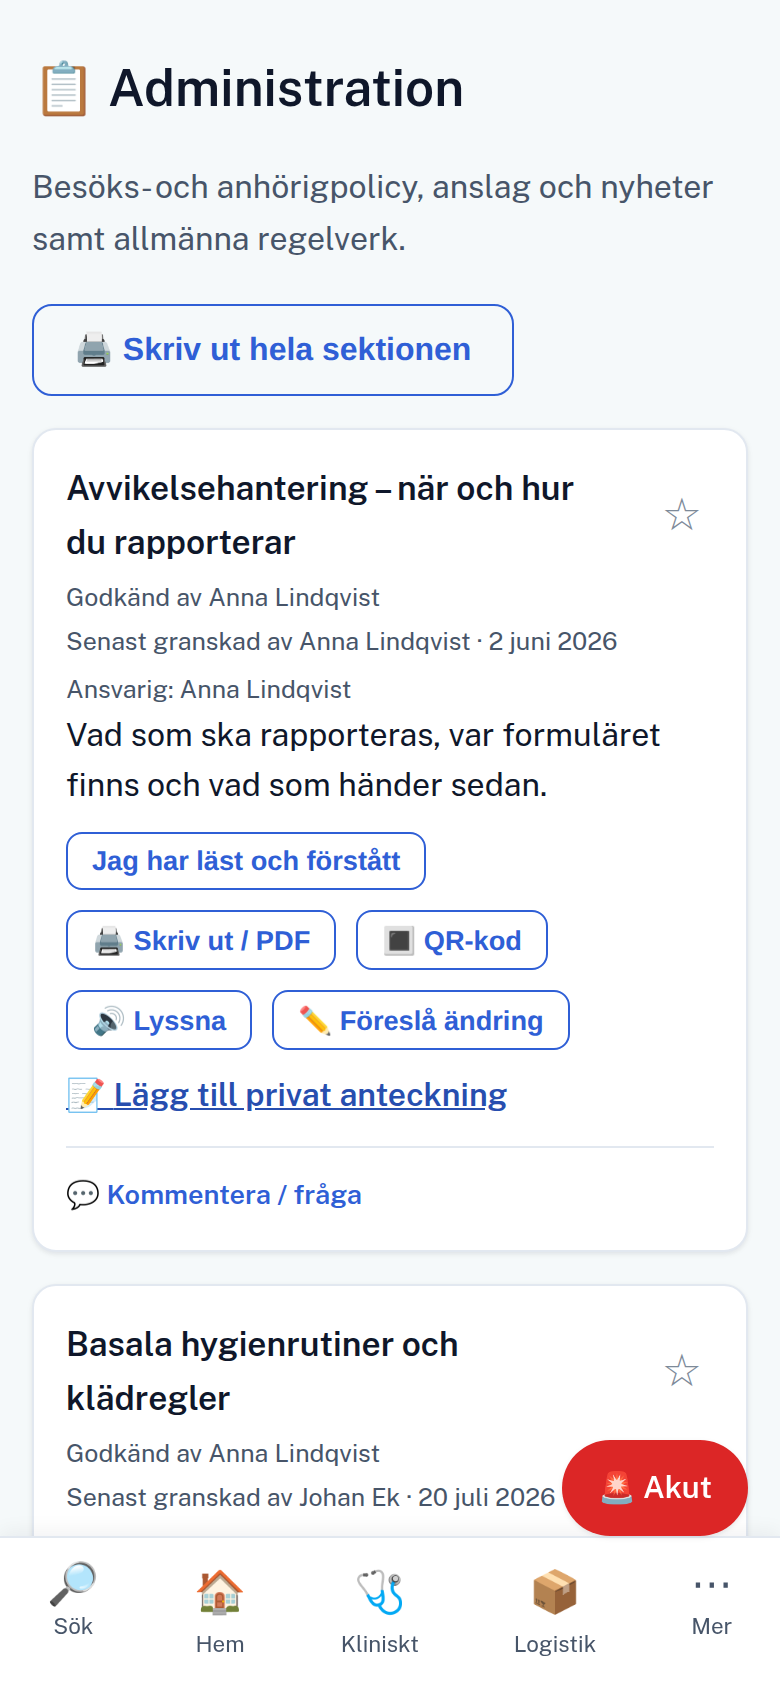
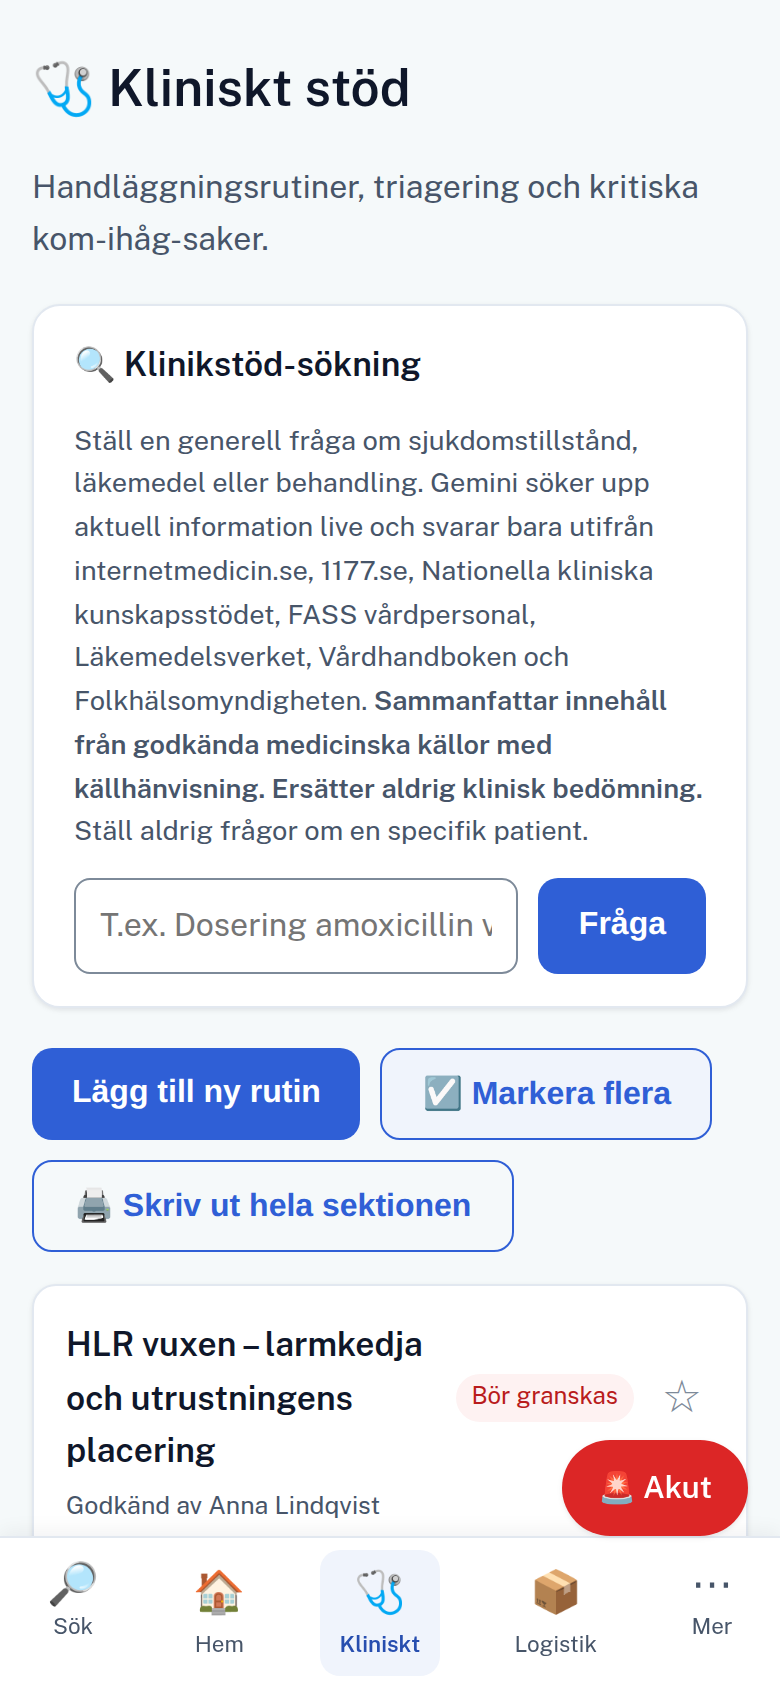
Fotografera /kliniskt-stod och byt röst till "jag" på webbplatsen
Dubbelkollade ägarens godkända MDR-fix (BESLUTSLOGG.md 2026-09-08) mot
faktisk kod innan nästa steg: KlinikfragaSok.jsx och KlinisktStod.jsx
har ersättningstexten oförändrad, källantalet stämmer nu mot
GODKANDA_KALLDOMANER (sju).

skarmbilder.spec.mjs fångar nu /kliniskt-stod i stället för den
tidigare /administration-substitutionen, som bara fanns för att
MDR-orden blockerade vyn. Bilden visar klinikstöd-sökningen med
källhänvisningstexten synlig men tom och oskickad – sökningen
anropar en extern källa ingen emulator kan svara på, och ett skickat
sökresultat ska aldrig hårdkodas i en marknadsbild. Alt-text och
bildtext i index.html omskrivna för att beskriva den faktiska bilden.

Röstbyte "vi" -> "jag" (VARUMARKE.md §8) i index.html och underlag.html,
de två filer den öppna punkten pekade ut. Två kvarvarande "vi" i
index.html lämnade medvetet - de återger kundens/personalens egen röst,
inte Synappsens. integritet.html rördes inte, låg utanför punktens
filscope.

Claude-Session: https://claude.ai/code/session_01MfMri7bFPJKFkaqT3B4Dv3

diff --git a/synappsen-web/index.html b/synappsen-web/index.html
@@ -207,10 +207,11 @@
       <div class="bilder" style="margin-top: 34px;">
         <figure class="bild">
           <img src="/bilder/app-rutiner.png" width="780" height="1688"
-               alt="En rutin i appen med raderna Godkänd av, Senast granskad av med datum och Ansvarig, samt knappar för att kvittera läsning, skriva ut, visa QR-kod och föreslå en ändring." />
+               alt="Vyn Kliniskt stöd i appen. Klinikstöd-sökningen med hjälptexten om att svaret källhänvisas och aldrig ersätter klinisk bedömning, sökfältet tomt och oskickat. Under den börjar rutinlistan med HLR vuxen – larmkedja och utrustningens placering, märkt Bör granskas och Akut." />
           <figcaption>
-            Varje rutin bär vem som godkänt den, när den senast granskades och vem som äger
-            den. Kvitteringsknappen är personalens, inte redaktörens.
+            Klinikstöd-sökningen källhänvisar varje svar till exakt de sju domäner den är
+            tekniskt begränsad till – ingen instruktion till en AI att hålla sig till dem, en
+            domänbegränsad sökmotor. Skärmbild ur appen med demodata, sökningen aldrig skickad.
           </figcaption>
         </figure>
         <figure class="bild">
@@ -401,13 +402,13 @@
     <section id="saknas">
       <div class="sek-huvud">
         <span class="sek-nr">06 — Öppenhet</span>
-        <h2>Ett fall ur vår egen utveckling, och gränserna vi dragit.</h2>
+        <h2>Ett fall ur min egen utveckling, och gränserna jag dragit.</h2>
       </div>
 
       <div class="prosa" style="margin-bottom: 38px;">
         <p>
           Alla system har luckor och alla utvecklingsprojekt stöter på problem. Här är ett
-          konkret fall ur vår egen utveckling, återgivet i sin helhet – och de gränser vi
+          konkret fall ur min egen utveckling, återgivet i sin helhet – och de gränser jag
           dragit medvetet.
         </p>
       </div>
@@ -424,9 +425,9 @@
           </p>
         </div>
         <div class="fall__led">
-          <span class="fall__etikett">Vad vi gjorde</span>
+          <span class="fall__etikett">Vad jag gjorde</span>
           <p>
-            Vi stängde av funktionen. Inte begränsade den, inte lade en varningstext på den –
+            Jag stängde av funktionen. Inte begränsade den, inte lade en varningstext på den –
             stängde av den, och byggde om grunden så att sökningen sker via en verkligt
             domänbegränsad sökmotor istället för via en instruktion.
           </p>
@@ -469,7 +470,7 @@
             <h3>Integration mot journalsystem</h3>
             <div>
               <span class="saknas__skal">Avstått för att hålla patientdata utanför</span>
-              <p>Synappsen spärrar aktivt patientuppgifter i tre lager. En integration mot Cosmic, Melior eller TakeCare skulle vara en annan produkt med en annan riskbild – vi bygger hellre det vi kan stå för.</p>
+              <p>Synappsen spärrar aktivt patientuppgifter i tre lager. En integration mot Cosmic, Melior eller TakeCare skulle vara en annan produkt med en annan riskbild – jag bygger hellre det jag kan stå för.</p>
             </div>
           </li>
           <li>
@@ -493,9 +494,9 @@
         <p>
           <strong>Och det viktigaste:</strong> Synappsen har ännu ingen enhet i skarp drift.
           Mätfunktionerna – trendkurvor, kvitteringsgrad, personalpuls – är byggda och redo,
-          men verkliga driftveckor finns inte att visa. Varje siffra vi anger är därför en
+          men verkliga driftveckor finns inte att visa. Varje siffra jag anger är därför en
           uppskattning, tydligt märkt som en sådan, tills en pilot gett riktiga tal. Vill ni
-          se resultat från andra kunder först är vi fel leverantör just nu. Vill ni vara den
+          se resultat från andra kunder först är jag fel leverantör just nu. Vill ni vara den
           som formar produkten medan den är ung, är det precis rätt läge.
         </p>
       </div>
@@ -576,7 +577,7 @@
             <h3>Drift</h3>
             <span class="paket__pris">59 000 kr</span>
             <span class="paket__enhet">per enhet och år · 150 användare ingår</span>
-            <span class="paket__flagga">Vår rekommendation</span>
+            <span class="paket__flagga">Min rekommendation</span>
           </div>
           <div class="paket__innehall">
             <p>Allt i Kärna, plus det som håller innehållet aktuellt och tillgängligt när driften är som mest sårbar.</p>
@@ -641,7 +642,7 @@
       <div class="prosa" style="margin-bottom: 32px;">
         <p>
           Piloten är avsiktligt liten: en avdelning, inte hela verksamheten. Poängen är att se
-          hur appen används i vanlig drift – och att få riktiga siffror istället för våra
+          hur appen används i vanlig drift – och att få riktiga siffror istället för mina
           uppskattningar.
         </p>
       </div>
@@ -685,7 +686,7 @@
       <span class="eyebrow">Kontakt</span>
       <h2>Boka en genomgång eller en pilot.</h2>
       <p class="lede" style="font-size: 17px;">
-        Vi visar appen i skarpt läge och går igenom upphandlingsunderlaget med er
+        Jag visar appen i skarpt läge och går igenom upphandlingsunderlaget med er
         IT-avdelning.
       </p>
       <p class="kontakt"><a class="kontakt__epost" href="mailto:kontakt@synappsen.se">kontakt@synappsen.se</a></p>

diff --git a/synappsen-web/underlag.html b/synappsen-web/underlag.html
@@ -66,7 +66,7 @@
           <div>
             <span class="saknas__skal">Publicerad</span>
             <p>
-              Varje underleverantör som behandlar personuppgifter för vår räkning, med ändamål
+              Varje underleverantör som behandlar personuppgifter för min räkning, med ändamål
               och region. Det ert dataskyddsombud behöver för artikel 28.2. Även här står
               öppna punkter kvar i texten.
             </p>
@@ -133,7 +133,7 @@
       <div class="prosa" style="margin-top: 26px;">
         <p>
           <strong>En sak att veta i förväg:</strong> underbiträdesförteckningen ovan innehåller
-          en öppen brist som vi inte lyft ut ur den publicerade versionen. Den står kvar
+          en öppen brist som jag inte lyft ut ur den publicerade versionen. Den står kvar
           därför att ett dokument som redovisar leverantörskedjan tappar hela sitt värde om
           just det obekväma redigeras bort.
         </p>

diff --git a/CLAUDE_STATUS.md b/CLAUDE_STATUS.md
@@ -4,11 +4,11 @@
 > `etapplaner/UTVECKLINGSLOGG.md` (detaljerad teknisk historik) eller planfilerna i
 > `etapplaner/` – den pekar vidare dit.
 >
-> **Historiken ligger i `etapplaner/STATUSARKIV.md`** (154 uppföljningar från 2026-07-28 och
+> **Historiken ligger i `etapplaner/STATUSARKIV.md`** (155 uppföljningar från 2026-07-28 och
 > framåt). Den här filen behåller bara de senaste. Sök i arkivet när du behöver veta *varför*
 > något gjordes.
 
-**Senast uppdaterad:** 2026-09-08 · **v5.139.0 i produktion**. **`firebase-tools`-bumpen
+**Senast uppdaterad:** 2026-09-09 · **v5.139.0 i produktion**. **`firebase-tools`-bumpen
 (`^13.35.1` → `^15.29.0`) är DEPLOYAD** (`deploy.yml` #99, success, 2026-09-08 19:54 –
 `last-modified`-headern på `https://synappsen-final-build.web.app` matchar exakt
 hostingens release-tidsstämpel, samtliga Cloud Functions "Successful update operation").
@@ -19,18 +19,17 @@ sandboxartefakt som inte reproducerar på riktig CI (24/0 klart där, två separ
 Den verkliga blockeraren var en annan, äkta firebase-tools-bugg (`Proxied.getOriginal()`
 binder bort statiska egenskaper som `admin.firestore.FieldValue`), fixad på vår sida med en
 direktimport i 14 filer. Se uppföljningen 2026-09-08 nedan för hela, korrigerade historien.
-Parallell tråd (gren
-`claude/synappsen-webbplats-jnmzn1`, PR #23, grön/mergebar) hittade två MDR-ord kvar i
-gränssnittet (⚠ ägarbeslut, `OPPNA-PUNKTER.md`) och det ursprungliga fyndet att `test:e2e`
-inte bevisade att Cloud Functions fungerade (`firebase-tools@13`-buggen, nu löst, se
-uppföljningen 2026-09-08 nedan). **Vertex AI-migreringen är
+**PR #23 (webbplatsen) mergad 2026-09-08.** De två MDR-orden ("Beslutsstöd"/"triageringsstöd")
+är borttagna ur klinikstöd-gränssnittet samma dag, ägarbeslut i `BESLUTSLOGG.md` – se
+uppföljningen 2026-09-09 nedan. **Vertex AI-migreringen är
 DEPLOYAD** (`deploy.yml` #98, success) och utvärderingen är helt ren efter deployen (13 OK,
 0 FEL, 0 GRANSKA). Kvar: bekräfta ett riktigt anrop i appen, se `OPPNA-PUNKTER.md`. Utgående e-post är stoppat
 sedan v5.131.0 i väntan på Brevos PUB-avtal. **Etapp L1 (leverantörspanelen) är SLUTFÖRD.**
-**Webbplatsen har fått skärmbilder ur appen, fyra publicerade dokumentsidor och räknade
-bevissiffror** (se uppföljningen 2026-09-06 om bevisluckan) – fortfarande `noindex`, nu sex
-sidor som ska avgömmas samtidigt. **E2E-sviten är grön igen** (2026-09-07): `test:e2e` startar
-nu functions-emulatorn, vilket den inte gjort sedan v5.136.0 bröt den.
+**Webbplatsen har fått skärmbilder ur appen (nu även `/kliniskt-stod`), fyra publicerade
+dokumentsidor, räknade bevissiffror och konsekvent "jag"-röst på start- och underlagssidan**
+(se uppföljningen 2026-09-09 nedan) – fortfarande `noindex`, sex sidor som ska avgömmas
+samtidigt. **E2E-sviten är grön igen** (2026-09-07): `test:e2e` startar nu functions-
+emulatorn, vilket den inte gjort sedan v5.136.0 bröt den.
 **Etapp 72 (`etapplaner/ETAPPLAN19.md`):** riktningen är antagen, beslutspunkt 5
 (efterfrågegrinden) gäller fortfarande som huvudregel för alla ÖVRIGA delmål. 72f, 72d och
 72h byggda och deployade som ett uttryckligt, engångsbeslutat undantag från grinden (se
@@ -137,6 +136,33 @@ vilken är historisk, vilken är auktoritativ för vad). Kort version:
   modul-gating, kostnadshistorik, schemalagda jobb, push-notiser).
 - `tests/rules/`, `tests/functions/` – emulator-baserade testsviter.
 
+
+## Uppföljning 2026-09-09 (PR #23 mergad, klinikstöd-fyndet dubbelkollat, /kliniskt-stod fotograferad, "jag"-röst genomförd)
+
+**PR #23 (webbplatsens bevislucka) mergad 2026-09-08**, `firebase-tools`-buggen bekräftad
+löst och deployad – se uppföljningen nedan. Innan nästa steg dubbelkollades ägarens
+godkända fix av "Beslutsstöd"/"triageringsstöd" mot faktisk kod (`KlinikfragaSok.jsx`,
+`KlinisktStod.jsx`, `BESLUTSLOGG.md` 2026-09-08): korrekt, ersättningstexten är oförändrad
+mot `JURIDISK-GRANSKNING.md` § 6.4, och källantalet stämmer nu mot `GODKANDA_KALLDOMANER`
+(sju).
+
+**Skärmbild av `/kliniskt-stod` tillagd** (`synappsen-web/verktyg/skarmbilder.spec.mjs`),
+ersätter den tidigare `/administration`-substitutionen. Bilden (`app-rutiner.png`, samma
+plats i `index.html`) visar klinikstöd-sökningen med källhänvisningstexten synlig men
+**tom och oskickad** – sökningen anropar en extern källa (Google Programmable Search +
+Vertex AI) som varken emulatorn eller bildtagningen har åtkomst till, och ett riktigt
+sökresultat ska aldrig hårdkodas i en marknadsbild. Alt-text och bildtext omskrivna för att
+beskriva den faktiska bilden (verifierad visuellt, inte antagen).
+
+**Röstbyte "vi" → "jag"** (`produkt/VARUMARKE.md` §8) genomfört i `index.html` och
+`underlag.html` – de två filer öppna punkten pekade ut. Genomgånget rad för rad: två
+kvarvarande "vi"-förekomster i `index.html` (rubriken "vet vi att alla har läst..." och
+"Ni sa, vi gjorde") är **medvetet lämnade** – de återger kundens/personalens egna röst, inte
+Synappsens, och skulle ha blivit fel om de bytts. `integritet.html` (policydokument, ett
+tiotal "vi") **rördes inte** – låg utanför den öppna punktens uttalade filscope och var inte
+en del av den här begäran. Raden borttagen ur `OPPNA-PUNKTER.md`.
+
+Fullt testsvep: `npm run lint`, `npx vitest run` (607 tester), `npm run build` – alla gröna.
 
 ## Uppföljning 2026-09-08 (firebase-tools bumpat till `^15.29.0` – två fel hittade, ett var falskt)
 
@@ -346,40 +372,3 @@ exponerar den öppna Brevo-bristen och interna sökvägar. Sex sidor ska avgömm
 två.
 
 ---
-## Uppföljning 2026-09-06 (AI-integrationens risker kartlagda – 8 fynd, ingen kod ändrad än)
-
-Ägaren frågade rakt ut vilka risker som finns i hur AI faktiskt är integrerad i Synappsen –
-personuppgifter, hallucination, MDR-gränsen – direkt efter att Vertex AI-migreringen
-deployats och verifierats (se sektionen nedan). En läsning av samtliga sex AI-anropsställen
-gav åtta namngivna fynd, skrivna ned i `granskningar/AI-INTEGRATIONSRISKER-2026-09-06.md`
-tillsammans med en prioritetsordning. **Ingen kod ändrades i den här sessionen** – ägaren bad
-uttryckligen om att dokumentera och komma ihåg dem för framtida arbete, ett fynd i taget med
-egen testtäckning, inte ett samlat svep.
-
-**Allvarligast (fynd 1):** `tolkaDokument` skickar en uppladdad bild till Vertex AI FÖRE
-`innehallerPersonnummer()` körs på resultatet – kontrollen skyddar Firestore mot lagring, inte
-själva överföringen till underbiträdet. Bilduppladdningsflödet saknar dessutom helt den
-namnvarning som redan finns för formulärtext (`kontrolleraPatientuppgifter` i
-`src/utils/piiFilter.js`).
-
-**Övriga fynd, kort:** (2) uppladdade råfoton raderas aldrig, bara vid kontoavetablering –
-GDPR-lagringsminimering, med bieffekten att andra än uppladdaren sannolikt inte kan se
-originalbilden bakom ett AI-utkast; (3) `klinikfrageloggar`/`klinikfragecache` har ingen
-faktisk gallring; (4) klinikstödets sex regler är mätta (`ai-evaluering.yml`, fyra körningar),
-men kviss- och stegförslagens liknande regler är det INTE – och en kvissfråga är ett facit
-(`rättIndex`), inte en sökträff, så en hallucinerad dos där väger tyngre; (5) artikel
-50-märkningen ("AI-tolkat ursprung") finns bara för rutinens ursprung, inte för AI-genererad
-kviss/steg; (6) bildtolkningens fritextfält (särskilt `komIhagFlaggor`) tas rakt av utan
-efterkontroll, mildrat men inte löst av utkastsgranskningen (löses av fynd 2:s fix); (7) ingen
-logg över VILKA anrop som gjorts till Google, vilket `avtal/INCIDENTRESPONSPLAN.md` avsnitt
-5.1 förutsätter finns; (8) budgeten återbetalas inte vid ett misslyckat anrop.
-
-**Vad som redan är starkt, för balansens skull:** EU-region verifierad genom faktiska anrop,
-ingen fristående API-nyckel, budgettak per organisation och användare, klinikstödets
-källbegränsning i två oberoende lager, allt AI-innehåll blir ett utkast som kräver mänskligt
-godkännande, promptinjektionens strukturella väg stängd, säkerhetsreglerna mätta i stället för
-antagna. Fynden ovan är förfiningar av ett redan relativt försvarat system, inte tecken på att
-grunden är svag.
-
-**Spårning:** varje fynd har en egen rad i `OPPNA-PUNKTER.md` under "Tio minuter", i samma
-prioritetsordning som dokumentet. Dokument nr 75, registrerat i `DOKUMENTREGISTER.md`.

diff --git a/etapplaner/STATUSARKIV.md b/etapplaner/STATUSARKIV.md
@@ -5436,3 +5436,41 @@ deployen och visade `in_progress` i över en timme efter att jobbet i själva ve
 20:04. Jag rapporterade det stale läget som pågående. Loggendpointen (404 medan jobbet kör,
 innehåll när det är klart) visade sig vara den enda tillförlitliga signalen på att en körning
 faktiskt avslutats.
+
+## Uppföljning 2026-09-06 (AI-integrationens risker kartlagda – 8 fynd, ingen kod ändrad än)
+
+Ägaren frågade rakt ut vilka risker som finns i hur AI faktiskt är integrerad i Synappsen –
+personuppgifter, hallucination, MDR-gränsen – direkt efter att Vertex AI-migreringen
+deployats och verifierats (se sektionen ovan). En läsning av samtliga sex AI-anropsställen
+gav åtta namngivna fynd, skrivna ned i `granskningar/AI-INTEGRATIONSRISKER-2026-09-06.md`
+tillsammans med en prioritetsordning. **Ingen kod ändrades i den här sessionen** – ägaren bad
+uttryckligen om att dokumentera och komma ihåg dem för framtida arbete, ett fynd i taget med
+egen testtäckning, inte ett samlat svep.
+
+**Allvarligast (fynd 1):** `tolkaDokument` skickar en uppladdad bild till Vertex AI FÖRE
+`innehallerPersonnummer()` körs på resultatet – kontrollen skyddar Firestore mot lagring, inte
+själva överföringen till underbiträdet. Bilduppladdningsflödet saknar dessutom helt den
+namnvarning som redan finns för formulärtext (`kontrolleraPatientuppgifter` i
+`src/utils/piiFilter.js`).
+
+**Övriga fynd, kort:** (2) uppladdade råfoton raderas aldrig, bara vid kontoavetablering –
+GDPR-lagringsminimering, med bieffekten att andra än uppladdaren sannolikt inte kan se
+originalbilden bakom ett AI-utkast; (3) `klinikfrageloggar`/`klinikfragecache` har ingen
+faktisk gallring; (4) klinikstödets sex regler är mätta (`ai-evaluering.yml`, fyra körningar),
+men kviss- och stegförslagens liknande regler är det INTE – och en kvissfråga är ett facit
+(`rättIndex`), inte en sökträff, så en hallucinerad dos där väger tyngre; (5) artikel
+50-märkningen ("AI-tolkat ursprung") finns bara för rutinens ursprung, inte för AI-genererad
+kviss/steg; (6) bildtolkningens fritextfält (särskilt `komIhagFlaggor`) tas rakt av utan
+efterkontroll, mildrat men inte löst av utkastsgranskningen (löses av fynd 2:s fix); (7) ingen
+logg över VILKA anrop som gjorts till Google, vilket `avtal/INCIDENTRESPONSPLAN.md` avsnitt
+5.1 förutsätter finns; (8) budgeten återbetalas inte vid ett misslyckat anrop.
+
+**Vad som redan är starkt, för balansens skull:** EU-region verifierad genom faktiska anrop,
+ingen fristående API-nyckel, budgettak per organisation och användare, klinikstödets
+källbegränsning i två oberoende lager, allt AI-innehåll blir ett utkast som kräver mänskligt
+godkännande, promptinjektionens strukturella väg stängd, säkerhetsreglerna mätta i stället för
+antagna. Fynden ovan är förfiningar av ett redan relativt försvarat system, inte tecken på att
+grunden är svag.
+
+**Spårning:** varje fynd har en egen rad i `OPPNA-PUNKTER.md` under "Tio minuter", i samma
+prioritetsordning som dokumentet. Dokument nr 75, registrerat i `DOKUMENTREGISTER.md`.
